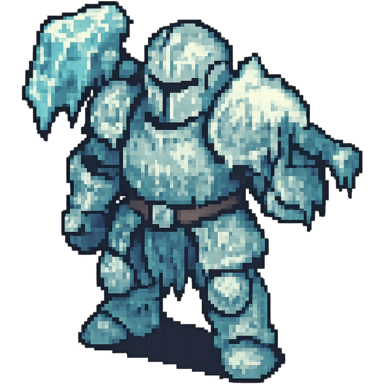
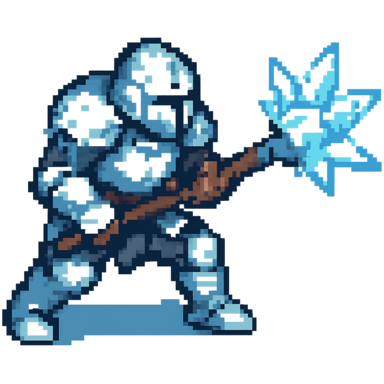
Fix knight facing, add 3-frame walk cycle and attack swing pose
All AI-generated knight poses are now drawn facing right (the game flips
for leftward movement), replacing the old 2-pose stride. Each knight has
idle, a 3-frame walk cycle (played A,B,C,B) and an attack pose that shows
on each auto-attack, facing the target. Checkpoint before restyling.

diff --git a/src/entities/Player.ts b/src/entities/Player.ts
@@ -38,18 +38,22 @@ export class Player extends Phaser.Physics.Arcade.Sprite {
   private hasSpriteArt: boolean;
   private walkAnimKey: string;
   private idleTextureKey: string;
-  private wasMoving = false;
+  private attackTextureKey: string;
+  private attackSwingUntil = 0;
 
   onLevelUp?: () => void;
   onDied?: () => void;
 
   constructor(scene: Phaser.Scene, x: number, y: number, character: CharacterDef) {
     const hasSpriteArt =
-      scene.textures.exists(character.idleTextureKey) && scene.textures.exists(character.strideTextureKey);
+      scene.textures.exists(character.idleTextureKey) &&
+      scene.textures.exists(character.attackTextureKey) &&
+      character.walkTextureKeys.every((key) => scene.textures.exists(key));
     super(scene, x, y, hasSpriteArt ? character.idleTextureKey : character.textureKey);
     this.hasSpriteArt = hasSpriteArt;
     this.walkAnimKey = `walk_${character.id}`;
     this.idleTextureKey = character.idleTextureKey;
+    this.attackTextureKey = character.attackTextureKey;
 
     scene.add.existing(this);
     scene.physics.add.existing(this);
@@ -88,11 +92,22 @@ export class Player extends Phaser.Physics.Arcade.Sprite {
 
   preUpdate(time: number, delta: number) {
     super.preUpdate(time, delta);
-    this.handleMovement();
+    this.handleMovement(time);
     this.handleAuras(time, delta);
   }
 
-  private handleMovement() {
+  /** Briefly overrides the sprite with the attack pose, facing the target, synced to auto-attacks. */
+  playAttackSwing(time: number, targetX?: number) {
+    if (!this.hasSpriteArt) return;
+    if (targetX !== undefined && Math.abs(targetX - this.x) > 4) {
+      this.setFlipX(targetX < this.x);
+    }
+    this.attackSwingUntil = time + 180;
+    this.anims.stop();
+    this.setTexture(this.attackTextureKey);
+  }
+
+  private handleMovement(time: number) {
     const left = this.cursors.left?.isDown || this.wasd.left.isDown;
     const right = this.cursors.right?.isDown || this.wasd.right.isDown;
     const up = this.cursors.up?.isDown || this.wasd.up.isDown;
@@ -108,25 +123,26 @@ export class Player extends Phaser.Physics.Arcade.Sprite {
       if (dir.x !== 0) this.setFlipX(dir.x < 0);
     }
     this.setVelocity(dir.x * this.effectiveMoveSpeed, dir.y * this.effectiveMoveSpeed);
-    this.updateWalkAnimation(moving);
+    this.updateWalkAnimation(moving, time);
   }
 
-  private updateWalkAnimation(moving: boolean) {
+  private updateWalkAnimation(moving: boolean, time: number) {
     if (!this.hasSpriteArt) return;
+    if (time < this.attackSwingUntil) return; // let the attack pose finish showing first
+
     if (moving) {
-      // "Running" is a faster playback of the same 2-pose cycle while
-      // Gale Force is active, rather than a separate sprint sprite.
-      const frameRate = this.powerups.gale > 0 ? 8 : 4;
+      // "Running" is a faster playback of the same walk cycle while Gale
+      // Force is active, rather than a separate sprint sprite.
+      const frameRate = this.powerups.gale > 0 ? 12 : 6;
       if (!this.anims.isPlaying || this.anims.currentAnim?.key !== this.walkAnimKey) {
         this.play({ key: this.walkAnimKey, frameRate });
       } else {
         this.anims.msPerFrame = 1000 / frameRate;
       }
-    } else if (this.wasMoving) {
+    } else if (this.anims.isPlaying || this.texture.key !== this.idleTextureKey) {
       this.anims.stop();
       this.setTexture(this.idleTextureKey);
     }
-    this.wasMoving = moving;
   }
 
   private handleAuras(time: number, _delta: number) {

diff --git a/src/config/characters.ts b/src/config/characters.ts
@@ -13,14 +13,27 @@ export interface CharacterDef {
   tagline: string;
   /** Procedural fallback texture, always present. */
   textureKey: string;
-  /** AI-generated sprite pair — may not exist until art:generate has been run. */
+  /**
+   * AI-generated sprite set — may not exist until art:generate has been run.
+   * All poses are authored facing/moving right; the game flips horizontally
+   * for leftward movement.
+   */
   idleTextureKey: string;
-  strideTextureKey: string;
+  walkTextureKeys: [string, string, string];
+  attackTextureKey: string;
   /** Display scale for the procedural fallback texture. */
   displayScale: number;
   /** Display scale for the (much larger) generated sprite textures. */
   spriteScale: number;
   mods: CharacterMods;
+}
+
+function generatedKeys(id: string) {
+  return {
+    idleTextureKey: `char_${id}_idle`,
+    walkTextureKeys: [`char_${id}_walkA`, `char_${id}_walkB`, `char_${id}_walkC`] as [string, string, string],
+    attackTextureKey: `char_${id}_attack`,
+  };
 }
 
 export const CHARACTERS: CharacterDef[] = [
@@ -29,8 +42,7 @@ export const CHARACTERS: CharacterDef[] = [
     name: 'Rain Knight',
     tagline: 'Balanced. A steady drizzle.',
     textureKey: TEX.playerRainKnight,
-    idleTextureKey: 'char_rainKnight_idle',
-    strideTextureKey: 'char_rainKnight_stride',
+    ...generatedKeys('rainKnight'),
     displayScale: 1,
     spriteScale: 0.26,
     mods: { maxHp: 1, moveSpeed: 1, attackDamage: 1, attackCooldown: 1 },
@@ -40,8 +52,7 @@ export const CHARACTERS: CharacterDef[] = [
     name: 'Hail Warden',
     tagline: 'Slow and unbreakable.',
     textureKey: TEX.playerHailWarden,
-    idleTextureKey: 'char_hailWarden_idle',
-    strideTextureKey: 'char_hailWarden_stride',
+    ...generatedKeys('hailWarden'),
     displayScale: 1.15,
     spriteScale: 0.3,
     mods: { maxHp: 1.5, moveSpeed: 0.85, attackDamage: 0.85, attackCooldown: 1.1 },
@@ -51,8 +62,7 @@ export const CHARACTERS: CharacterDef[] = [
     name: 'Storm Chaser',
     tagline: 'Fast and fragile.',
     textureKey: TEX.playerStormChaser,
-    idleTextureKey: 'char_stormChaser_idle',
-    strideTextureKey: 'char_stormChaser_stride',
+    ...generatedKeys('stormChaser'),
     displayScale: 0.9,
     spriteScale: 0.23,
     mods: { maxHp: 0.75, moveSpeed: 1.25, attackDamage: 1.1, attackCooldown: 0.8 },

diff --git a/src/scenes/BootScene.ts b/src/scenes/BootScene.ts
@@ -19,7 +19,10 @@ export class BootScene extends Phaser.Scene {
     }
     for (const character of CHARACTERS) {
       this.load.image(character.idleTextureKey, `assets/generated/${character.idleTextureKey}.png`);
-      this.load.image(character.strideTextureKey, `assets/generated/${character.strideTextureKey}.png`);
+      this.load.image(character.attackTextureKey, `assets/generated/${character.attackTextureKey}.png`);
+      for (const key of character.walkTextureKeys) {
+        this.load.image(key, `assets/generated/${key}.png`);
+      }
     }
   }
 
@@ -27,15 +30,15 @@ export class BootScene extends Phaser.Scene {
     generateAllTextures(this);
 
     for (const character of CHARACTERS) {
-      if (
-        this.textures.exists(character.idleTextureKey) &&
-        this.textures.exists(character.strideTextureKey) &&
-        !this.anims.exists(`walk_${character.id}`)
-      ) {
+      const [a, b, c] = character.walkTextureKeys;
+      const hasWalkArt = [a, b, c].every((key) => this.textures.exists(key));
+      if (hasWalkArt && !this.anims.exists(`walk_${character.id}`)) {
         this.anims.create({
           key: `walk_${character.id}`,
-          frames: [{ key: character.idleTextureKey }, { key: character.strideTextureKey }],
-          frameRate: 4,
+          // B (the centered passing pose) plays twice per cycle for a
+          // smoother 4-tick cadence out of only 3 generated frames.
+          frames: [{ key: a }, { key: b }, { key: c }, { key: b }],
+          frameRate: 6,
           repeat: -1,
         });
       }

diff --git a/src/scenes/GameScene.ts b/src/scenes/GameScene.ts
@@ -193,6 +193,7 @@ export class GameScene extends Phaser.Scene implements WeatherHost {
     const target = this.findNearestEnemy(this.player.attackRange);
     if (!target) return;
     this.player.lastAttackAt = time;
+    this.player.playAttackSwing(time, target.x);
     this.fireProjectile(target);
   }
 
